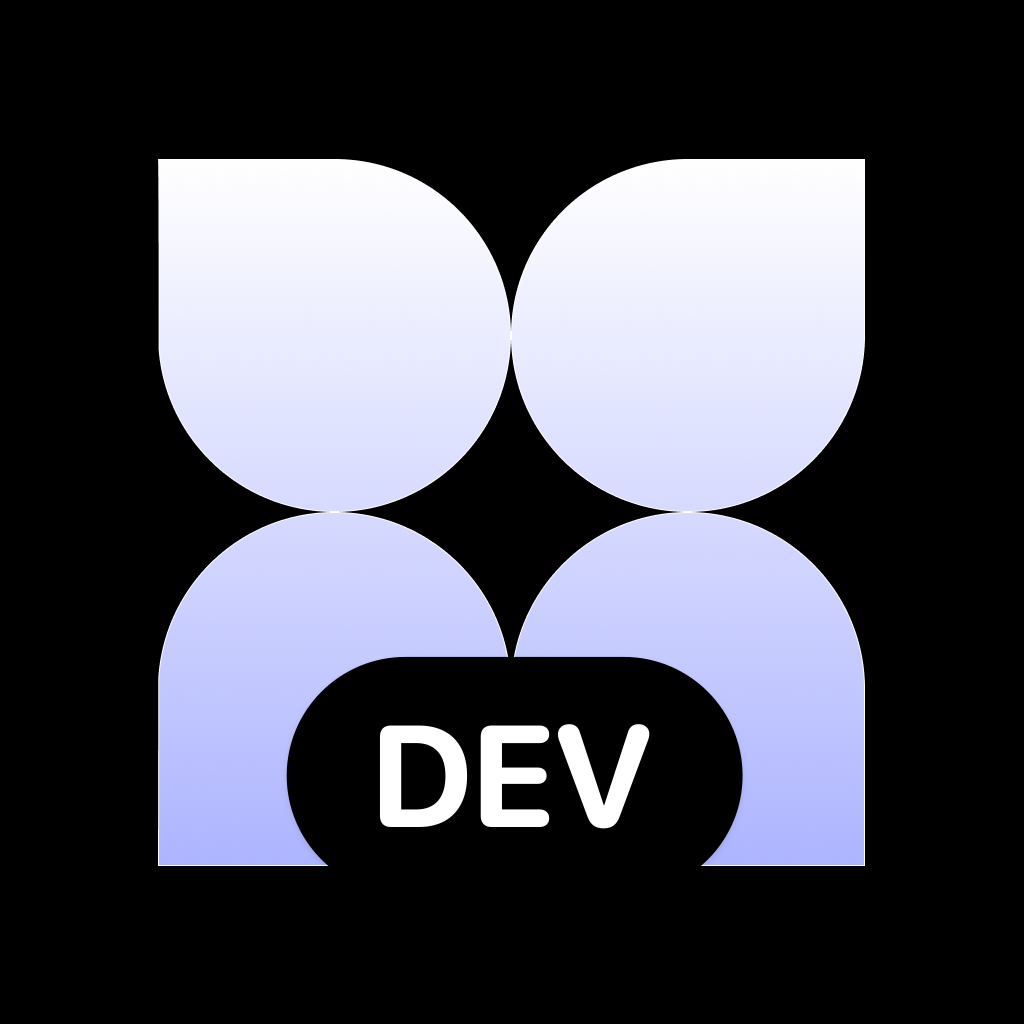
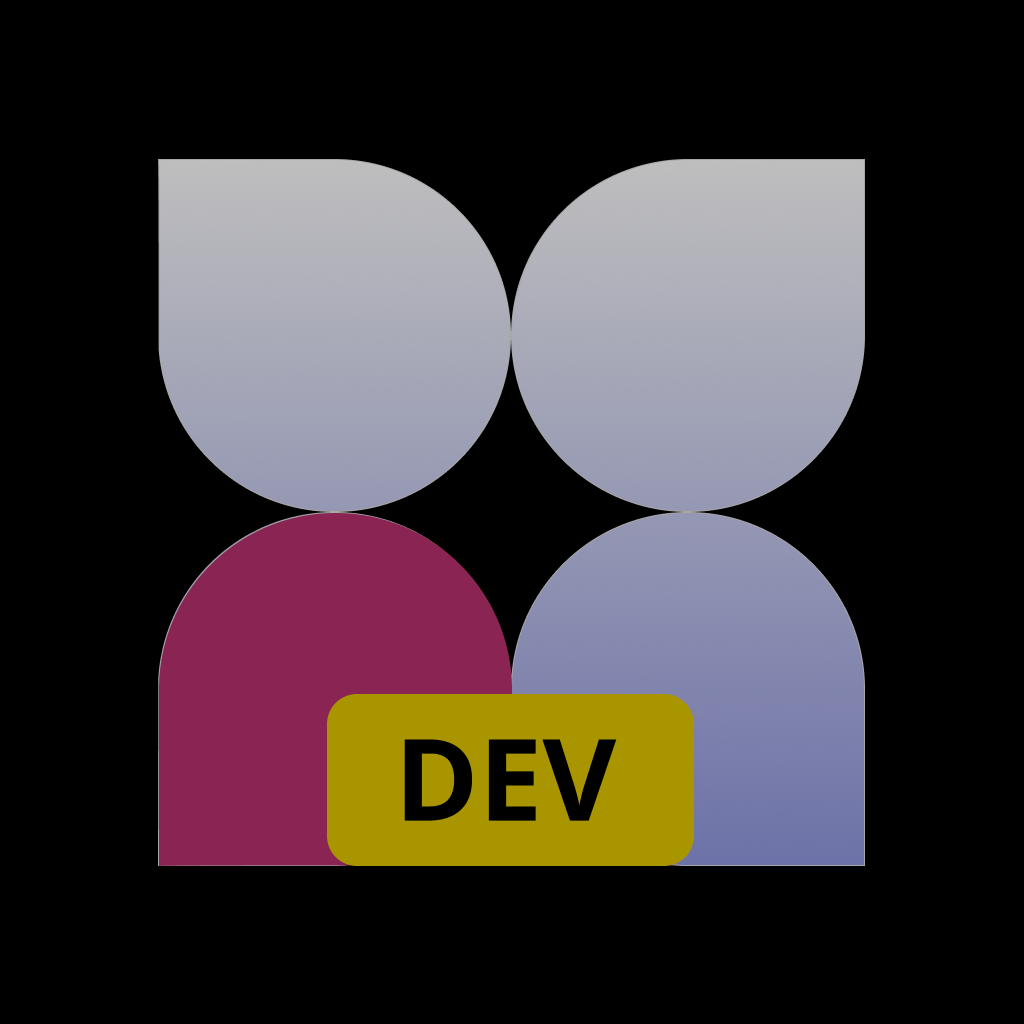
feat: yeni iOS/Android ikonları ve tam ekran splash'ı ekle, dev ikonlarını script ile üret, yerel build'i dev varyantına al

diff --git a/scripts/generate-dev-icons.js b/scripts/generate-dev-icons.js
@@ -1,0 +1,42 @@
+// Dev sürümü ikonlarını normal ikonlardan üretir: assets/images/dev-badge.png'yi üzerlerine bindirir.
+// Normal ikon değiştiğinde proje kökünden `npm run icons:dev` çalıştırmak yeterli, dev ikonları ayrıca tasarlanmaz.
+const fs = require('fs');
+const path = require('path');
+const { PNG } = require('pngjs');
+
+const IMAGES = path.join(process.cwd(), 'assets', 'images');
+
+// Konumlar 1024x1024 ikona göre (Figma'daki dev ikonlarından ölçüldü).
+// iOS'ta badge altta; Android'de maske kenarları kırptığı için ortada.
+// Koyu ikonda badge, iOS koyu modundaki genel parlaklığa uysun diye karartılır.
+const TARGETS = [
+  { from: 'icon.png', to: 'icon-dev.png', x: 327, y: 694, brightness: 1 },
+  { from: 'icon-dark.png', to: 'icon-dev-dark.png', x: 327, y: 694, brightness: 0.66 },
+  { from: 'adaptive-icon.png', to: 'adaptive-icon-dev.png', x: 327, y: 427, brightness: 1 },
+];
+
+const badge = PNG.sync.read(fs.readFileSync(path.join(IMAGES, 'dev-badge.png')));
+
+for (const { from, to, x, y, brightness } of TARGETS) {
+  const icon = PNG.sync.read(fs.readFileSync(path.join(IMAGES, from)));
+  if (icon.width !== 1024 || icon.height !== 1024) {
+    throw new Error(`${from} 1024x1024 olmalı (şu an ${icon.width}x${icon.height})`);
+  }
+
+  // Badge'i alfa karışımıyla ikonun üzerine bindir
+  for (let by = 0; by < badge.height; by++) {
+    for (let bx = 0; bx < badge.width; bx++) {
+      const b = (by * badge.width + bx) * 4;
+      const alpha = badge.data[b + 3] / 255;
+      if (alpha === 0) continue;
+      const i = ((y + by) * icon.width + (x + bx)) * 4;
+      for (let c = 0; c < 3; c++) {
+        icon.data[i + c] = Math.round(badge.data[b + c] * brightness * alpha + icon.data[i + c] * (1 - alpha));
+      }
+      icon.data[i + 3] = Math.max(icon.data[i + 3], badge.data[b + 3]);
+    }
+  }
+
+  fs.writeFileSync(path.join(IMAGES, to), PNG.sync.write(icon));
+  console.log(`${from} -> ${to}`);
+}

diff --git a/app.config.js b/app.config.js
@@ -9,11 +9,6 @@ module.exports = {
     orientation: "portrait",
     icon: IS_DEV ? "./assets/images/icon-dev.png" : "./assets/images/icon.png",
     userInterfaceStyle: "light",
-    splash: {
-      image: "./assets/images/splash.png",
-      resizeMode: "cover",
-      background: "#ffffff"
-    },
     ios: {
       supportsTablet: true,
       // iPad'de Split View / Slide Over açık (iPadOS 26+ bunu zaten dikkate almıyor, pencereler hep boyutlandırılabilir)
@@ -50,7 +45,8 @@ module.exports = {
     android: {
       adaptiveIcon: {
         foregroundImage: IS_DEV ? "./assets/images/adaptive-icon-dev.png" : "./assets/images/adaptive-icon.png",
-        background: "#ffffff"
+        // Foreground görseli kendi zeminini içeriyor; bu renk yalnızca maske kenarında görünür
+        backgroundColor: "#303FE0"
       },
       package: IS_DEV ? "com.ues.boostifyspeak.dev" : "com.ues.boostifyspeak",
       permissions: [
@@ -67,6 +63,16 @@ module.exports = {
     plugins: [
       "expo-secure-store",
       "expo-router",
+      [
+        "expo-splash-screen",
+        {
+          // boostifywrite ile aynı yapı: tam ekran görsel. Tablet yatayda üstten/alttan kırpılır, logo ortada kalır.
+          image: "./assets/images/splash.png",
+          resizeMode: "cover",
+          backgroundColor: "#303FE0",
+          enableFullScreenImage_legacy: true
+        }
+      ],
       "expo-font",
       "expo-audio",
       "expo-web-browser",

diff --git a/CLAUDE.md b/CLAUDE.md
@@ -16,17 +16,21 @@ BoostifySpeak (iç adı: UES Mobile App), öğrencilerin konuşma görevlerini (
 npm start                              # Expo dev server (dev client gerekli, Expo Go DESTEKLENMİYOR)
 npm run ios                            # iOS'ta çalıştır (iPhone 16 fiziksel cihaz, expo run:ios)
 npm run android                        # Android'de çalıştır
+npm run prebuild:dev                   # Native projeleri dev varyantıyla üret/güncelle
+npm run icons:dev                      # Dev ikonlarını normal ikonlardan üret (DEV badge'i bindirir)
 npm run web                            # Web'de çalıştır
 npm run lint                           # expo lint (eslint-config-expo/flat)
 npx expo start --clear                 # Metro cache temizleyerek başlat
-npx expo prebuild --clean              # Native projeleri (ios/android) yeniden üret
+npm run prebuild:dev -- --clean        # Native projeleri (ios/android) sıfırdan yeniden üret
 ```
 
-**Xcode 27 notu:** Xcode 27'de Simulator.app yerine Device Hub geldi. @expo/cli bunu tanımadığı için `npm run ios` (`expo run:ios`) "Can't determine id of Simulator app" hatası verebilir. Geçici çözüm: `npx expo start` + `ios/BoostifySpeak.xcworkspace`'i Xcode'da açıp cihazı seçerek Run. Her `prebuild --clean` sonrası Signing Team yeniden seçilmeli ve `xattr -w com.dropbox.ignored 1 ios android` tekrarlanmalı (proje Dropbox'ta).
+**Xcode 27 notu:** Xcode 27'de Simulator.app yerine Device Hub geldi. @expo/cli bunu tanımadığı için `npm run ios` (`expo run:ios`) "Can't determine id of Simulator app" hatası verebilir. Geçici çözüm: `npx expo start` + `ios/BoostifySpeakDEV.xcworkspace`'i Xcode'da açıp cihazı seçerek Run. Her `prebuild --clean` sonrası Signing Team yeniden seçilmeli ve `xattr -w com.dropbox.ignored 1 ios android` tekrarlanmalı (proje Dropbox'ta).
 
 Bu projede birim/entegrasyon test altyapısı (Jest vb.) **yok** — `npm run lint` ve manuel/fiziksel cihaz testi mevcut doğrulama yoludur.
 
 Native bağımlılık eklendiğinde veya `app.config.js`/plugin değişikliğinde `ios`/`android` klasörleri prebuild ile senkronize edilmeli (`expo-dev-client` kullanıldığı için Expo Go ile çalışmaz).
+
+**Yerel build her zaman dev varyantıdır.** `start`/`ios`/`android`/`prebuild:dev` script'leri `APP_VARIANT=development` verir: bundle id `com.ues.boostifyspeak.dev`, ad "BoostifySpeak DEV", iOS projesi `ios/BoostifySpeakDEV.xcworkspace`. Böylece store sürümü aynı cihazda yan yana kalır. `npx expo prebuild`'i script dışında **çıplak çalıştırmayın**: prod varyantıyla `ios/BoostifySpeak` üretir ve store uygulamasının üzerine kurulur. TestFlight/store build'leri yalnızca EAS `production` profiliyle alınır (ios/android gitignore'da, EAS kendi prebuild'ini env'siz yapar).
 
 ## Mimari
 
@@ -113,7 +117,7 @@ Halihazırda kısmi bir migration devam ediyor (bkz. `TODO.md` — Icon Migratio
 
 ### Build konfigürasyonu
 
-- `app.config.js` tek config dosyasıdır (`app.json` yok, eklemeyin: `app.config.js` düz obje export ettiği için yok sayılır) — `APP_VARIANT=development` env değişkenine göre dev/prod arasında icon, bundle identifier (`com.ues.boostifyspeak[.dev]`) ve isim değiştirir.
+- `app.config.js` tek config dosyasıdır (`app.json` yok, eklemeyin: `app.config.js` düz obje export ettiği için yok sayılır) — `APP_VARIANT=development` env değişkenine göre dev/prod arasında icon, bundle identifier (`com.ues.boostifyspeak[.dev]`) ve isim değiştirir. Dev ikonları (`icon-dev*.png`, `adaptive-icon-dev.png`) elle tasarlanmaz: normal ikon değişince `npm run icons:dev` ile `dev-badge.png` bindirilerek üretilir. Splash her iki varyantta aynıdır (`expo-splash-screen` plugin'i, tam ekran `splash.png`, zemin `#303FE0`).
 - `eas.json` build profilleri: `development` (internal, dev client, APK), `preview` (internal, APK), `production` (store, app-bundle/ios).
 - iOS `buildNumber` her production build'de manuel artırılıyor (`app.config.js` içinde).
 - **Ekran yönü:** iPhone ve Android telefonlar portre kilitli; iPad ve Android tablet (en kısa kenar ≥ 600dp) her yöne döner. iOS'ta bu `app.config.js` → `infoPlist` içindeki `UISupportedInterfaceOrientations` (iPhone) / `~ipad` listeleriyle, Android'de manifest portre + `app/_layout.tsx`'te tablette `ScreenOrientation.lockAsync(OrientationLock.DEFAULT)` ile yapılır. Yerleşimler yatay ve kısa pencereye `useResponsive()` üzerinden uyum sağlamalı.
